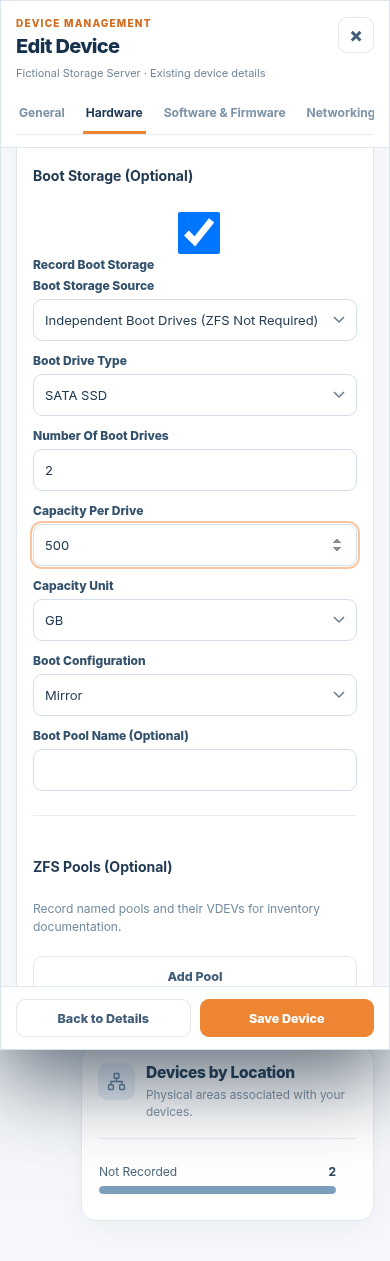
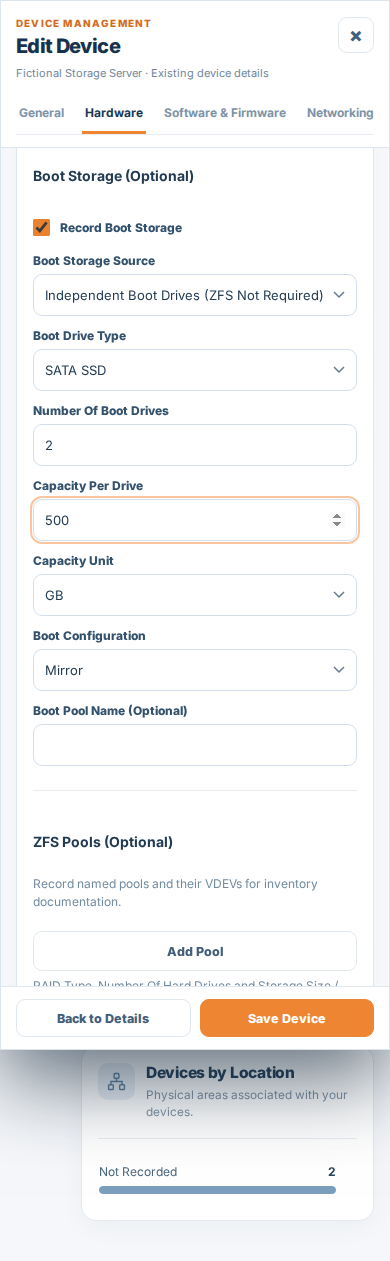
Refresh eight genuine Server boot checkbox screenshots and remove capture job
Replace only the affected light/dark desktop/mobile screenshots with real Chromium captures from the corrected Device editor; update source hashes and evidence. Remove the temporary read-only capture workflow in the same commit.

diff --git a/docs/development-handovers/evidence/device-stock-registration/Report.md b/docs/development-handovers/evidence/device-stock-registration/Report.md
@@ -92,6 +92,33 @@ and original Device Details HTML are unchanged. No Associated Equipment, correct
 dashboards/Low Stock, Supplier directory, Service Desk, stocktakes, retirement,
 backup/release or website feature is introduced.
 
+## Owner-Approved Boot Storage Checkbox Correction — Updated Visual Evidence
+
+The product owner identified the oversized, detached **Record Boot Storage**
+checkbox in the original Server hardware screenshots and approved a narrow
+presentation correction plus a registered-stock readiness limit.
+
+The correction is in commits `084f465` and `7bda5ef`: a compact, inline 17 px
+checkbox within the existing approved Device form, and readiness editing that
+cannot move the registered Ready portion of quantity-based stock. Focused backend
+and actual-browser regression tests are part of the PR.
+
+**Eight affected genuine screenshots were re-captured** from the corrected
+application source at `e2520afedf62ea5d63681adb5d2bcd73cc3ca1e7` through the existing
+`tests/device-storage-interface.cjs` Chromium test, with fictional records.
+[The capture workflow](https://github.com/Caffoot/Caffoot-Lite/actions/runs/43830964329) succeeded; it had read-only repository
+permissions. Both desktop/mobile and light/dark states were checked.
+The one-off capture workflow is removed in the evidence-update commit.
+
+Those eight images replace only the corresponding original **ordinary Boot Storage**
+and **existing ZFS Boot Pool** PNGs in the gallery below. The other **28 genuine
+images** remain from the original runtime source
+`3f5297480cadafbf257cacdd2a6ead44bfd6bfe7`; they were not altered.
+The [manifest](capture-manifest.json) gives SHA-256, byte length and the
+actual source for each refreshed screenshot. No image was artificially
+retouched, and no owner visual acceptance or merge is claimed.
+Final-head Actions must still be verified after this evidence commit.
+
 ## Changed-Screen Gallery
 
 **36 genuine screenshots**, fictional data, desktop **1440 × 1050** and mobile
